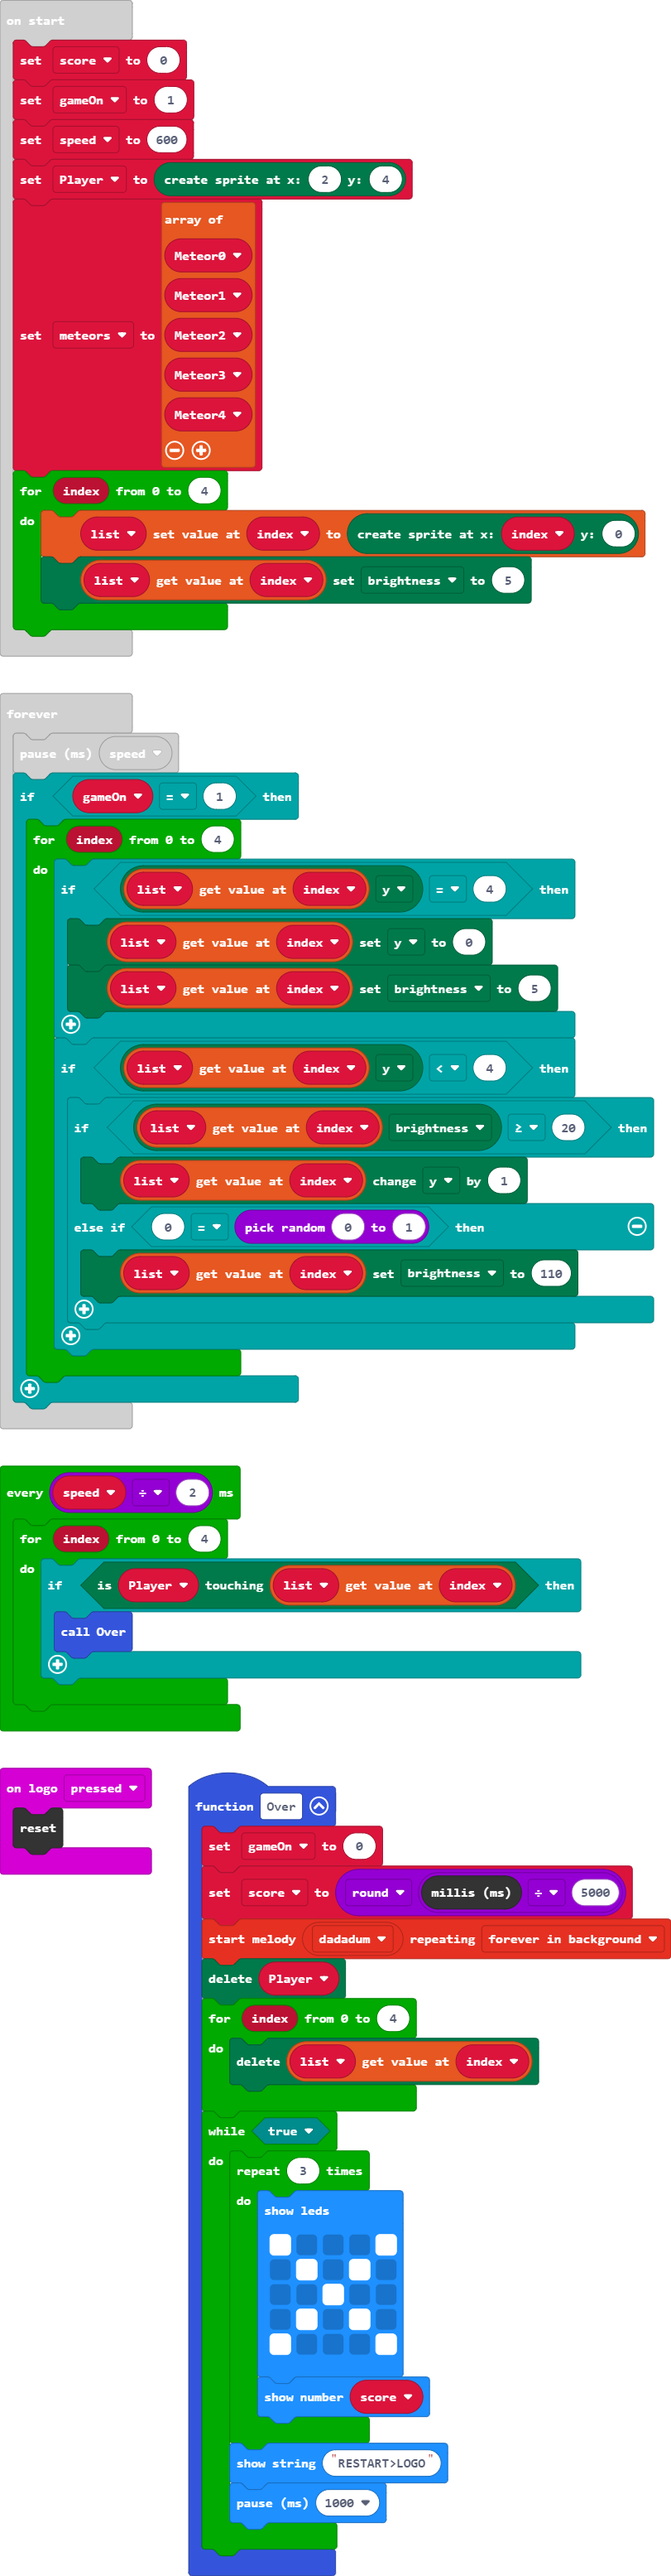
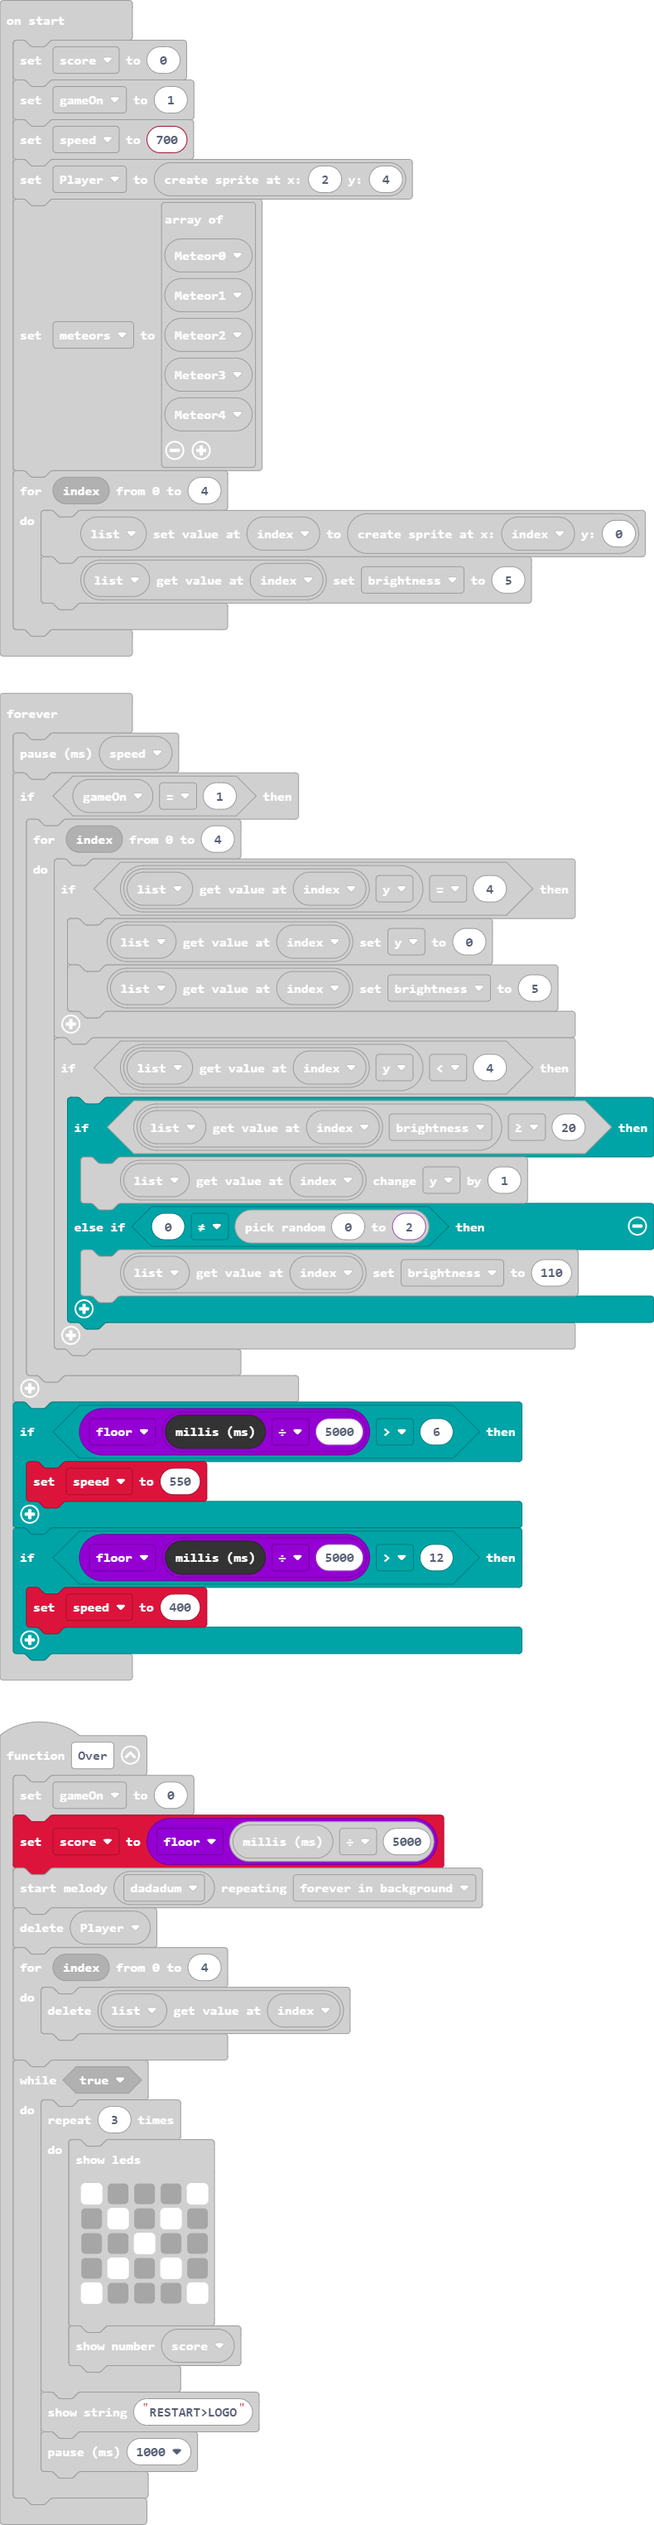
Update main.blocks, main.ts

diff --git a/main.ts b/main.ts
@@ -3,7 +3,7 @@ input.onButtonPressed(Button.A, function () {
 })
 function Over () {
     gameOn = 0
-    score = Math.round(control.millis() / 5000)
+    score = Math.floor(control.millis() / 5000)
     music.startMelody(music.builtInMelody(Melodies.Dadadadum), MelodyOptions.ForeverInBackground)
     Player.delete()
     for (let index = 0; index <= 4; index++) {
@@ -41,7 +41,7 @@ let gameOn = 0
 let score = 0
 score = 0
 gameOn = 1
-let speed = 600
+let speed = 700
 Player = game.createSprite(2, 4)
 let meteors = [
 Meteor0,
@@ -65,11 +65,17 @@ basic.forever(function () {
             if (list[index].get(LedSpriteProperty.Y) < 4) {
                 if (list[index].get(LedSpriteProperty.Brightness) >= 20) {
                     list[index].change(LedSpriteProperty.Y, 1)
-                } else if (0 == randint(0, 1)) {
+                } else if (0 != randint(0, 2)) {
                     list[index].set(LedSpriteProperty.Brightness, 110)
                 }
             }
         }
+    }
+    if (Math.floor(control.millis() / 5000) > 6) {
+        speed = 550
+    }
+    if (Math.floor(control.millis() / 5000) > 12) {
+        speed = 400
     }
 })
 loops.everyInterval(speed / 2, function () {
